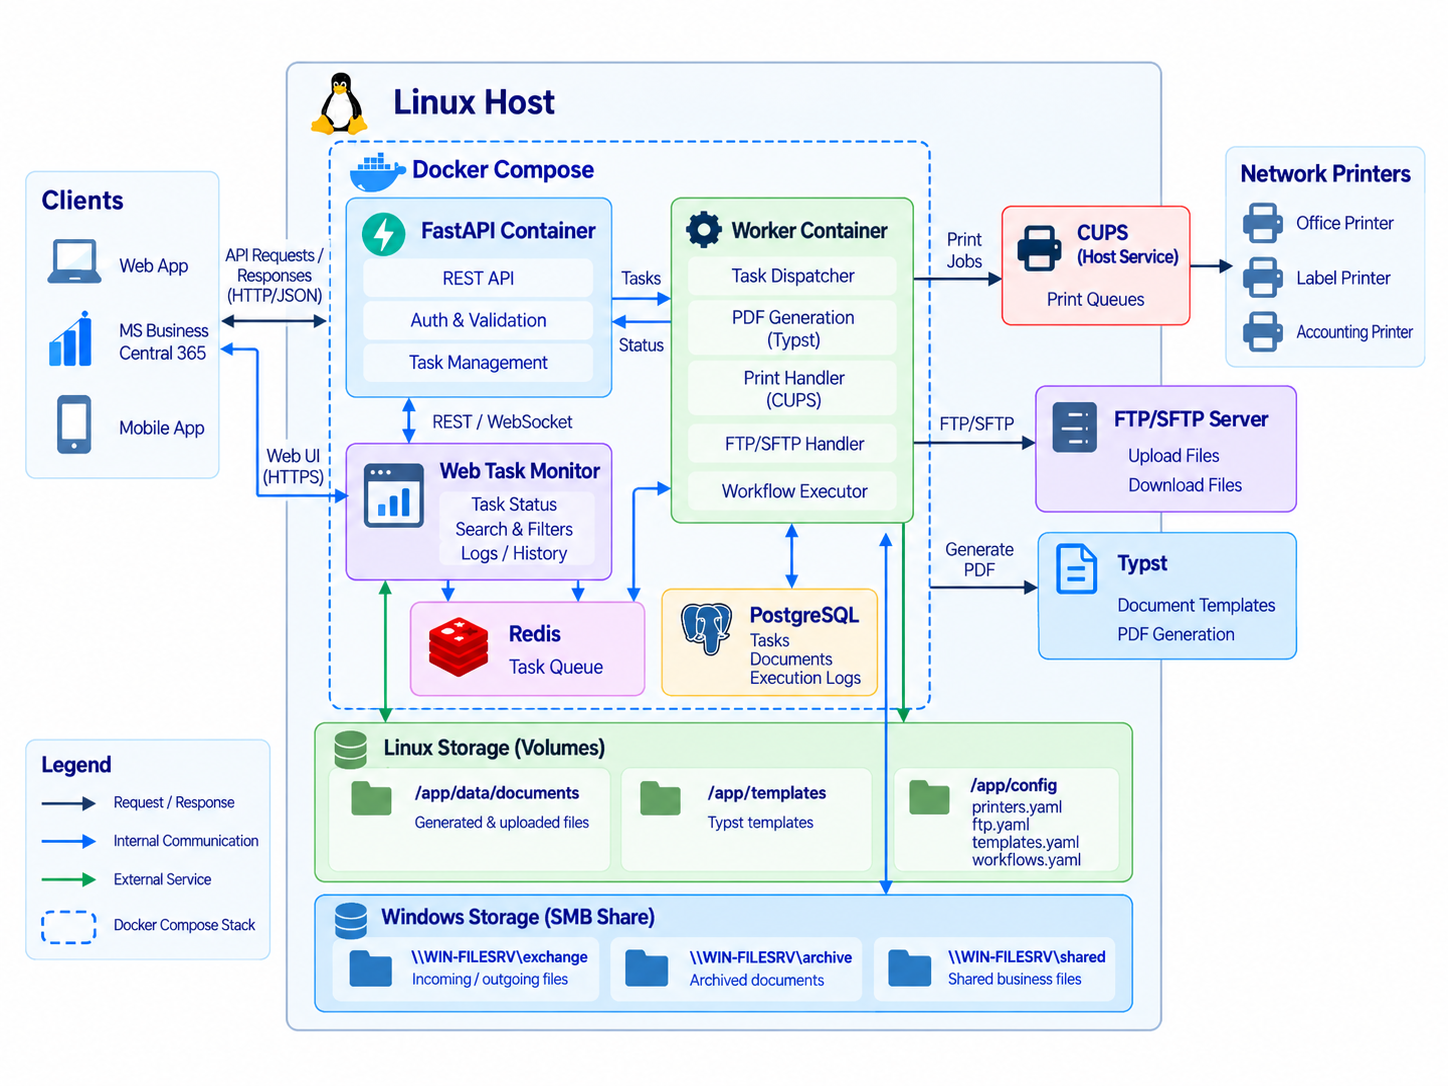
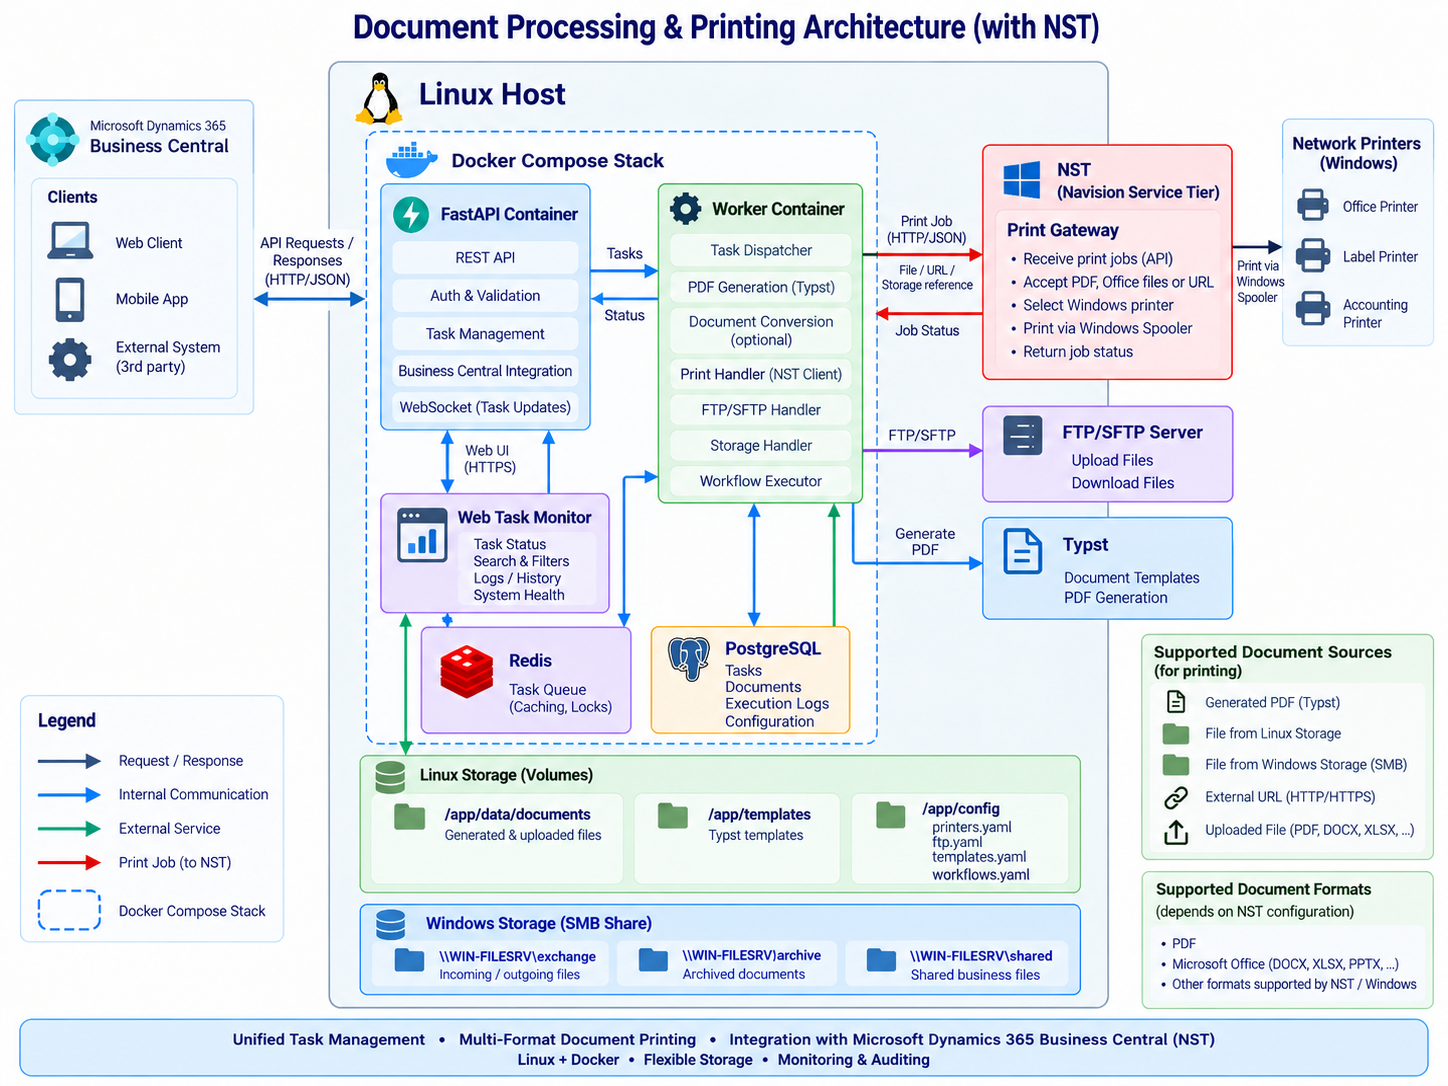
add schema03

Changed region(s): [[0.0, 0.0, 0.9945, 1.0]]

diff --git a/stuctures.md b/stuctures.md
@@ -1,0 +1,116 @@
+## Linux Host Structure
+```
+Linux Host
+│
+├── Docker Compose
+│   ├── api
+│   │   └── FastAPI
+│   ├── worker
+│   │   ├── Task Dispatcher
+│   │   ├── Workflow Executor
+│   │   ├── PDF Handler
+│   │   ├── Print Handler
+│   │   ├── FTP/SFTP Handler
+│   │   └── Storage Handler
+│   ├── redis
+│   ├── postgres
+│   └── web
+│       └── Web Task Monitor
+│
+├── Linux Storage
+│   ├── documents/
+│   ├── uploads/
+│   ├── temp/
+│   ├── templates/
+│   └── config/
+│
+└── SMB Mounts
+    ├── /mnt/windows-exchange
+    ├── /mnt/windows-archive
+    └── /mnt/windows-shared
+```
+
+## General Project Structure
+```
+task-service/
+│
+├── app/
+│   ├── main.py
+│   │
+│   ├── api/
+│   │   ├── tasks.py
+│   │   ├── documents.py
+│   │   ├── printers.py
+│   │   ├── workflows.py
+│   │   └── health.py
+│   │
+│   ├── core/
+│   │   ├── config.py
+│   │   ├── security.py
+│   │   ├── logging.py
+│   │   └── exceptions.py
+│   │
+│   ├── db/
+│   │   ├── models.py
+│   │   ├── session.py
+│   │   └── migrations/
+│   │
+│   ├── tasks/
+│   │   ├── dispatcher.py
+│   │   ├── registry.py
+│   │   ├── schemas.py
+│   │   └── handlers/
+│   │       ├── base.py
+│   │       ├── generate_pdf.py
+│   │       ├── print.py
+│   │       ├── ftp_upload.py
+│   │       ├── ftp_download.py
+│   │       └── storage_copy.py
+│   │
+│   ├── services/
+│   │   ├── documents/
+│   │   │   ├── typst.py
+│   │   │   ├── templates.py
+│   │   │   └── resolver.py
+│   │   ├── printing/
+│   │   │   ├── nst_client.py
+│   │   │   ├── document_resolver.py
+│   │   │   └── printer_config.py
+│   │   ├── transfer/
+│   │   │   ├── ftp.py
+│   │   │   └── sftp.py
+│   │   └── storage/
+│   │       ├── base.py
+│   │       ├── local.py
+│   │       └── smb.py
+│   │
+│   └── workflows/
+│       ├── executor.py
+│       └── definitions.py
+│
+├── worker/
+│   └── main.py
+│
+├── web/
+│   └── Web Task Monitor
+│
+├── templates/
+│   ├── invoice/
+│   ├── label/
+│   └── report/
+│
+├── config/
+│   ├── printers.yaml
+│   ├── nst.yaml
+│   ├── ftp.yaml
+│   ├── storage.yaml
+│   ├── templates.yaml
+│   └── workflows.yaml
+│
+├── tests/
+├── Dockerfile
+├── compose.yaml
+└── .env
+```
+
+![structures](/img/schema03.png)
